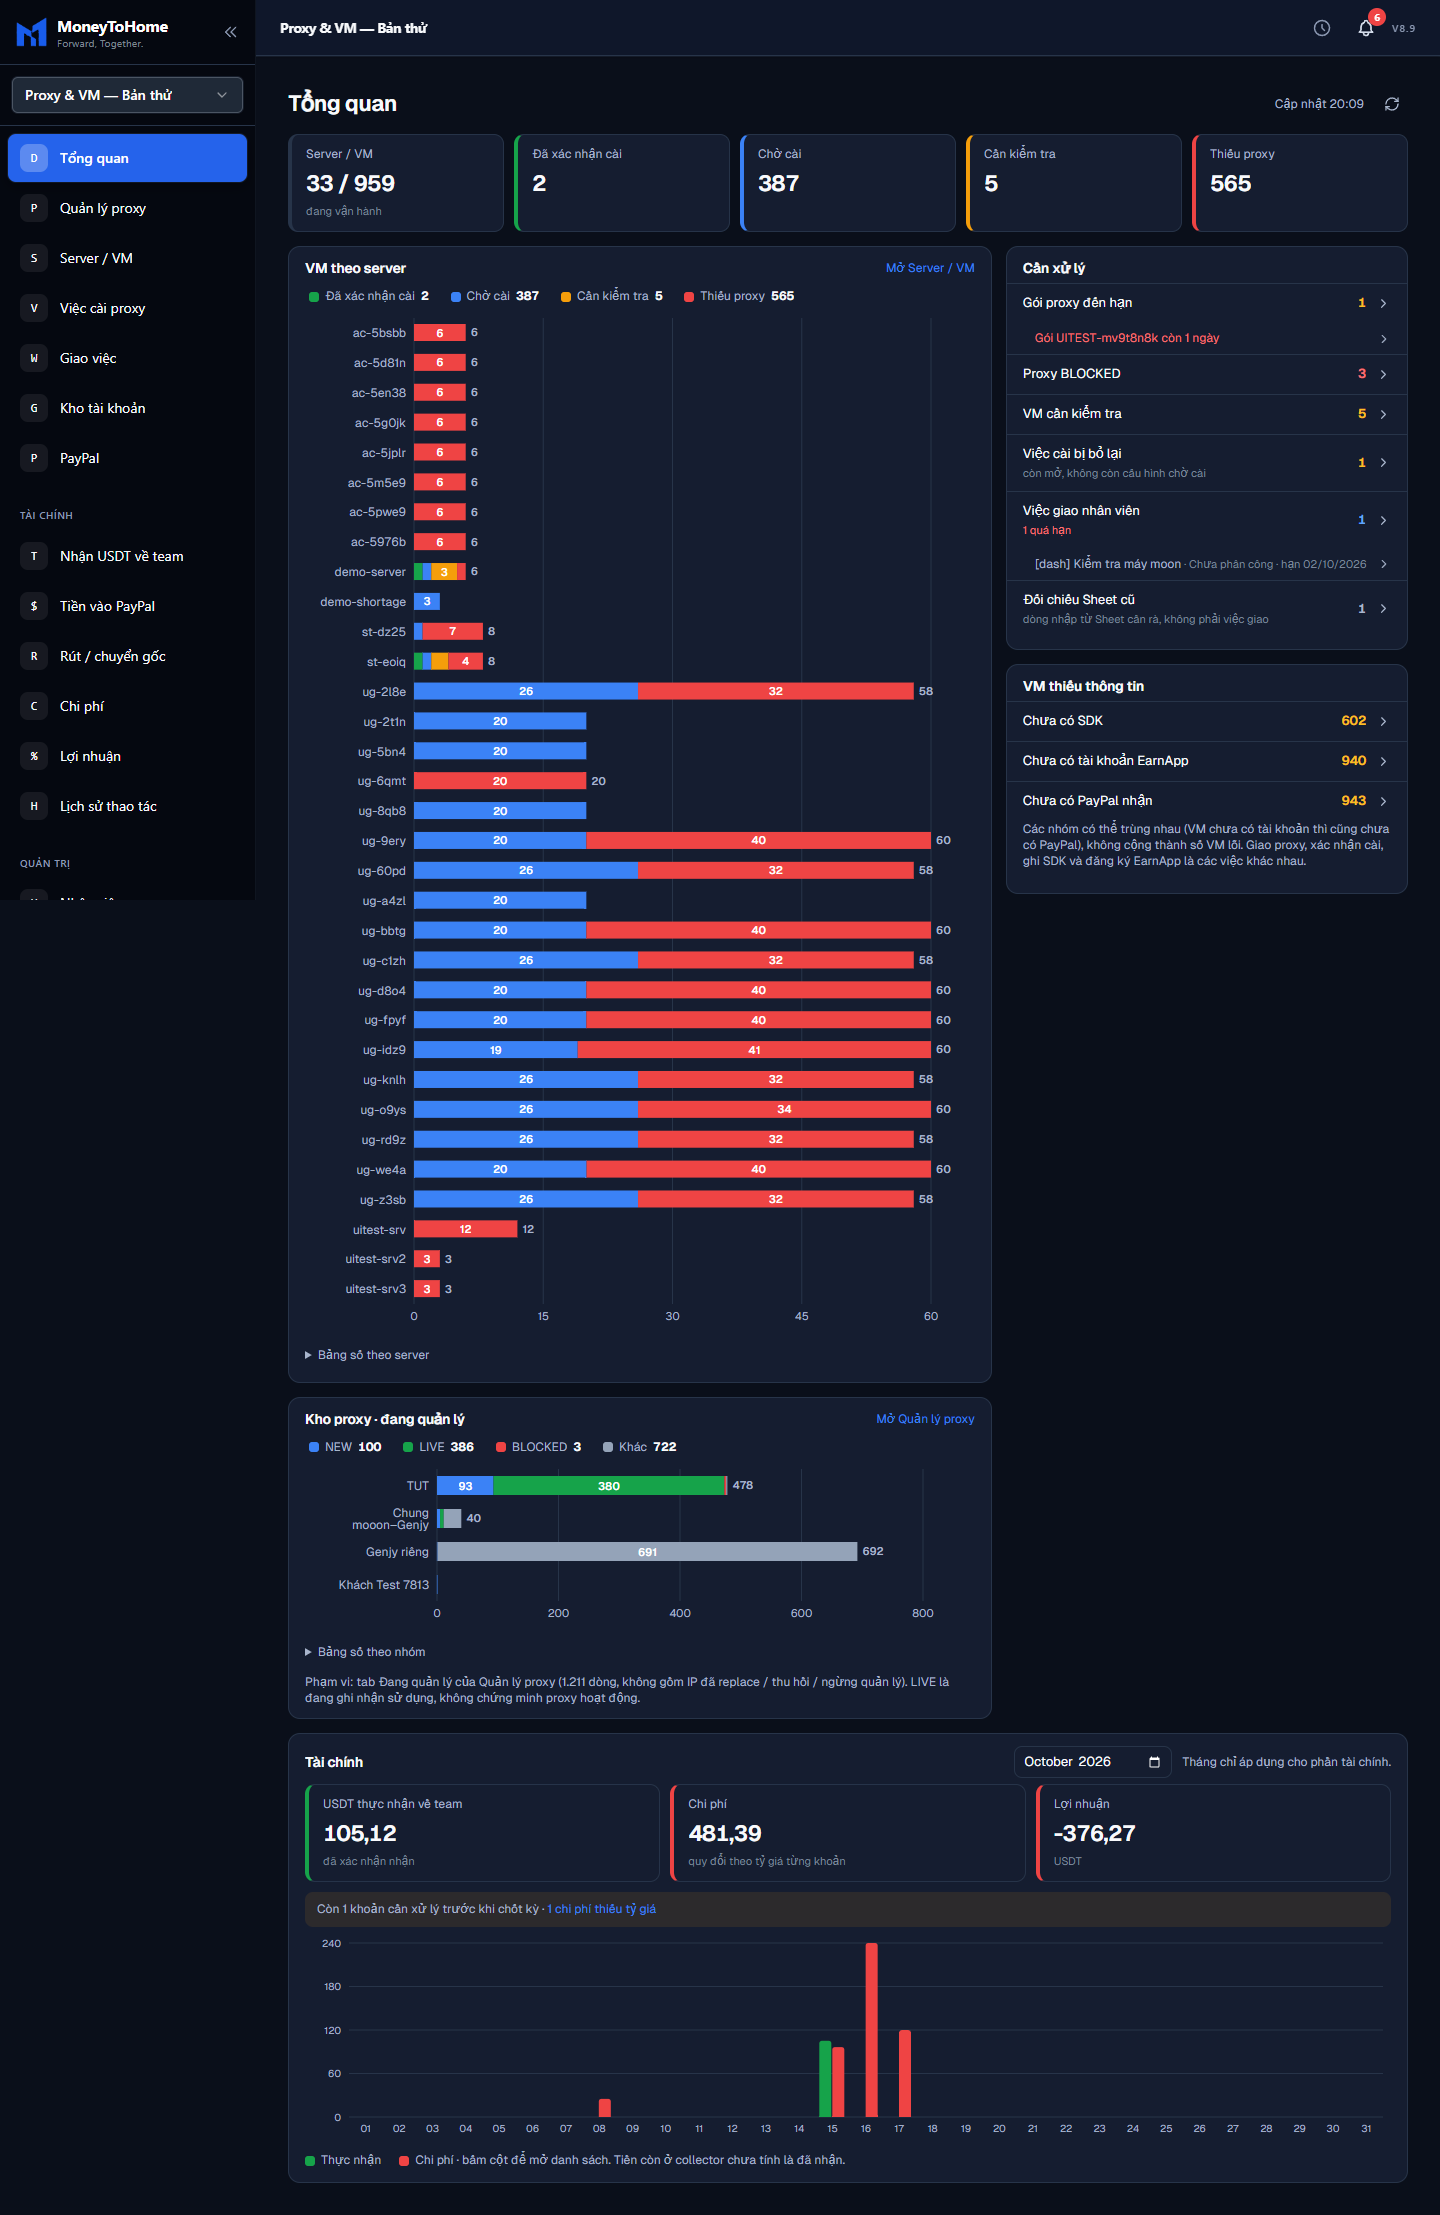
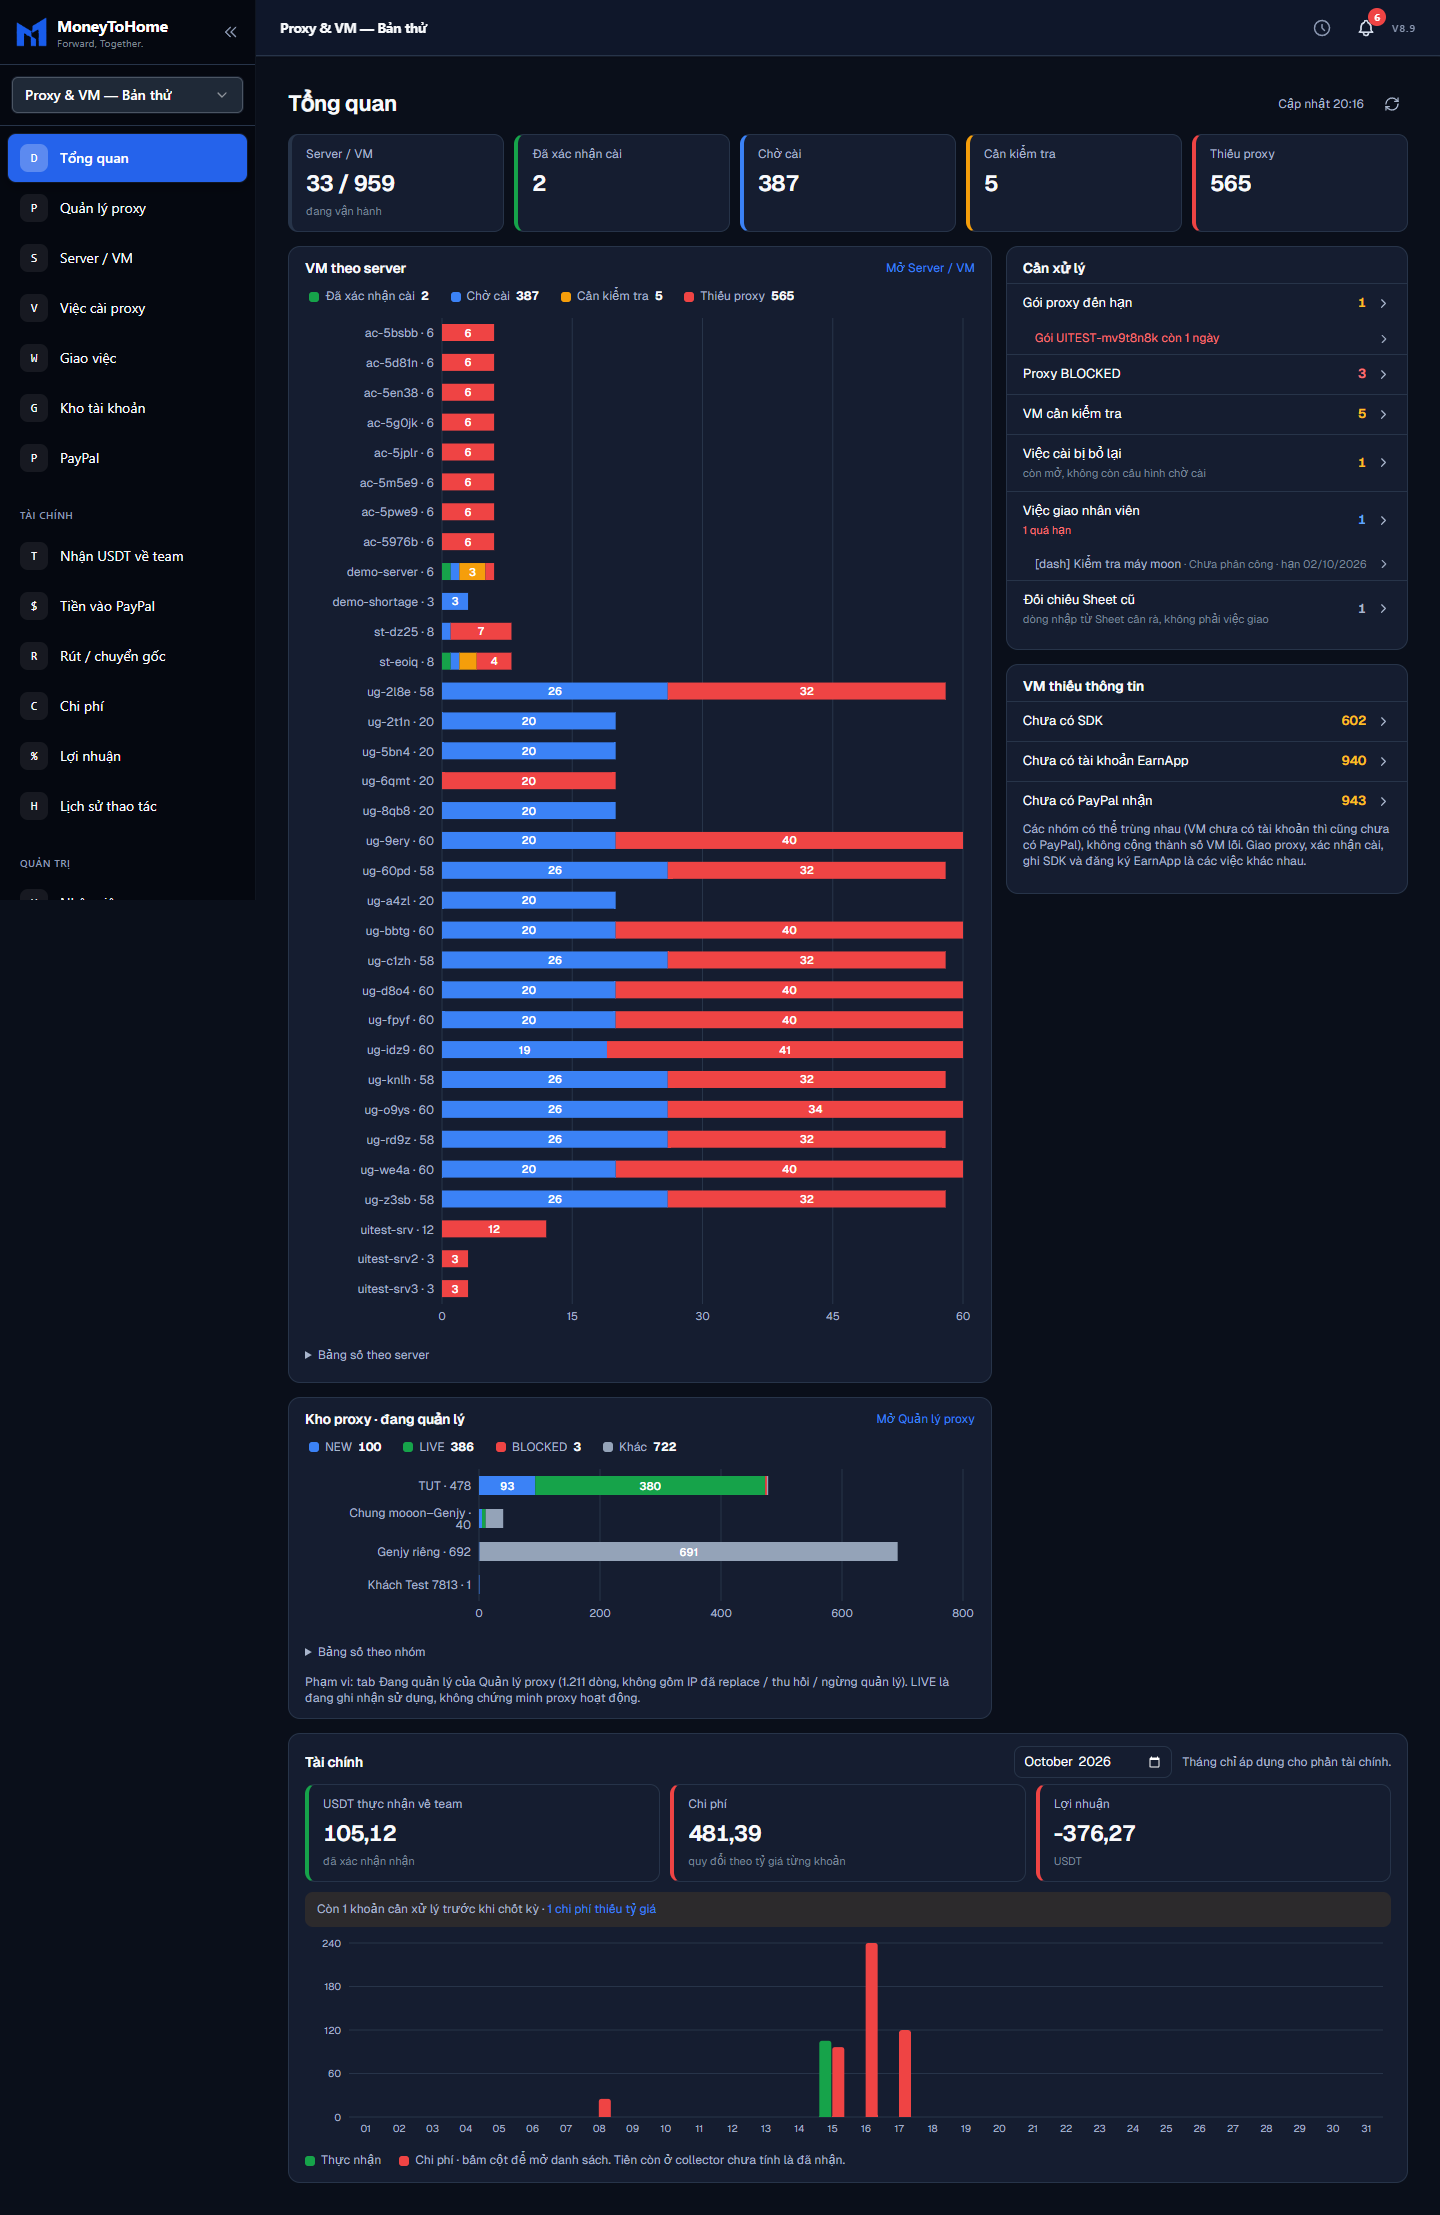
fix(dashboard): show each server/group total beside its name (end label vanished when the last segment was 0)

diff --git a/src/components/dashboard/OverviewCharts.tsx b/src/components/dashboard/OverviewCharts.tsx
@@ -18,21 +18,20 @@ function Legend({items,totals,href}:{items:readonly {key:string;label:string;col
   return <ul className="ov-legend">{items.map(i=><li key={i.key}><Link href={href(i.key)}><span className="ov-dot" style={{background:i.color}}/>{i.label} <strong>{fmt(totals[i.key]??0)}</strong></Link></li>)}</ul>;
 }
 export function VmByServerChart({ops}:{ops:Ops}){
-  const router=useRouter(),rows=ops.servers.map(s=>({...s,name:s.code})),axis=Math.min(150,Math.max(64,Math.max(0,...rows.map(r=>r.code.length))*7+14));
+  const router=useRouter(),rows=ops.servers.map(s=>({...s,name:`${s.code} · ${fmt(s.total)}`})),axis=Math.min(170,Math.max(72,Math.max(0,...rows.map(r=>r.name.length))*7+14));
   if(!rows.length)return <p className="ov-empty">Chưa có server đang vận hành. <Link className="pm-link" href={links.vms()}>Thêm server ở Server / VM</Link></p>;
   const open=(serverId:string,view?:VmView)=>router.push(links.vms({serverId,view}));
   return <div>
     <Legend items={VM_SERIES} totals={ops.totals} href={k=>links.vms({view:k as VmView})}/>
     <div style={{height:Math.max(140,rows.length*30+34)}} role="img" aria-label={`VM theo server: ${rows.map(r=>`${r.code} ${r.total} VM`).join(', ')}`}>
       <ResponsiveContainer width="100%" height="100%">
-        <BarChart data={rows} layout="vertical" margin={{top:4,right:44,bottom:4,left:4}} barCategoryGap={6}>
+        <BarChart data={rows} layout="vertical" margin={{top:4,right:12,bottom:4,left:4}} barCategoryGap={6}>
           <CartesianGrid horizontal={false} stroke="var(--ds-border)"/>
           <XAxis type="number" allowDecimals={false} tick={{fontSize:11,fill:'var(--ds-text-secondary)'}} axisLine={false} tickLine={false}/>
-          <YAxis type="category" dataKey="name" width={axis} interval={0} tick={{fontSize:12,fill:'var(--ds-text-primary)',cursor:'pointer'}} axisLine={false} tickLine={false} onClick={(t:{value?:string})=>{const s=rows.find(r=>r.code===t?.value);if(s)open(s.id);}}/>
+          <YAxis type="category" dataKey="name" width={axis} interval={0} tick={{fontSize:12,fill:'var(--ds-text-primary)',cursor:'pointer'}} axisLine={false} tickLine={false} onClick={(t:{value?:string})=>{const s=rows.find(r=>r.name===t?.value);if(s)open(s.id);}}/>
           <Tooltip {...tooltipStyle} formatter={(v,name)=>[fmt(Number(v)),VM_SERIES.find(s=>s.key===name)?.label||String(name)]}/>
-          {VM_SERIES.map((s,i)=><Bar key={s.key} dataKey={s.key} stackId="vm" fill={s.color} cursor="pointer" isAnimationActive={false} onClick={(d:{payload?:{id:string}})=>{if(d?.payload)open(d.payload.id,s.key);}}>
+          {VM_SERIES.map(s=><Bar key={s.key} dataKey={s.key} stackId="vm" fill={s.color} cursor="pointer" isAnimationActive={false} onClick={(d:{payload?:{id:string}})=>{if(d?.payload)open(d.payload.id,s.key);}}>
             <LabelList dataKey={s.key} content={segmentLabel(22)}/>
-            {i===VM_SERIES.length-1&&<LabelList dataKey="total" position="right" style={{fontSize:11,fill:'var(--ds-text-secondary)',fontWeight:600}}/>}
           </Bar>)}
         </BarChart>
       </ResponsiveContainer>
@@ -41,20 +40,19 @@ export function VmByServerChart({ops}:{ops:Ops}){
   </div>;
 }
 export function StockChart({ops}:{ops:Ops}){
-  const router=useRouter(),rows=ops.stock.rows,totals=Object.fromEntries(STOCK_SERIES.map(s=>[s.key,rows.reduce((a,r)=>a+r[s.key],0)]));
+  const router=useRouter(),rows=ops.stock.rows.map(r=>({...r,name:`${r.label} · ${fmt(r.total)}`})),totals=Object.fromEntries(STOCK_SERIES.map(s=>[s.key,rows.reduce((a,r)=>a+r[s.key],0)]));
   if(!ops.stock.total)return <p className="ov-empty">Chưa có proxy trong kho đang quản lý. <Link className="pm-link" href={links.proxies()}>Mở Quản lý proxy</Link></p>;
   return <div>
     <Legend items={STOCK_SERIES} totals={totals} href={k=>links.proxies({state:k})}/>
     <div style={{height:rows.length*34+34}} role="img" aria-label={`Kho proxy: ${rows.map(r=>`${r.label} ${r.total}`).join(', ')}`}>
       <ResponsiveContainer width="100%" height="100%">
-        <BarChart data={rows} layout="vertical" margin={{top:4,right:52,bottom:4,left:4}} barCategoryGap={7}>
+        <BarChart data={rows} layout="vertical" margin={{top:4,right:12,bottom:4,left:4}} barCategoryGap={7}>
           <CartesianGrid horizontal={false} stroke="var(--ds-border)"/>
           <XAxis type="number" allowDecimals={false} tick={{fontSize:11,fill:'var(--ds-text-secondary)'}} axisLine={false} tickLine={false}/>
-          <YAxis type="category" dataKey="label" width={128} interval={0} tick={{fontSize:12,fill:'var(--ds-text-primary)',cursor:'pointer'}} axisLine={false} tickLine={false} onClick={(t:{value?:string})=>{const r=rows.find(x=>x.label===t?.value);if(r)router.push(links.proxies({group:r.key}));}}/>
+          <YAxis type="category" dataKey="name" width={200} interval={0} tick={{fontSize:12,fill:'var(--ds-text-primary)',cursor:'pointer'}} axisLine={false} tickLine={false} onClick={(t:{value?:string})=>{const r=rows.find(x=>x.name===t?.value);if(r)router.push(links.proxies({group:r.key}));}}/>
           <Tooltip {...tooltipStyle} formatter={(v,name)=>[fmt(Number(v)),STOCK_SERIES.find(s=>s.key===name)?.label||String(name)]}/>
-          {STOCK_SERIES.map((s,i)=><Bar key={s.key} dataKey={s.key} stackId="stock" fill={s.color} cursor="pointer" isAnimationActive={false} onClick={(d:{payload?:{key:string}})=>{if(d?.payload)router.push(links.proxies({group:d.payload.key,state:s.key}));}}>
+          {STOCK_SERIES.map(s=><Bar key={s.key} dataKey={s.key} stackId="stock" fill={s.color} cursor="pointer" isAnimationActive={false} onClick={(d:{payload?:{key:string}})=>{if(d?.payload)router.push(links.proxies({group:d.payload.key,state:s.key}));}}>
             <LabelList dataKey={s.key} content={segmentLabel(26)}/>
-            {i===STOCK_SERIES.length-1&&<LabelList dataKey="total" position="right" style={{fontSize:11,fill:'var(--ds-text-secondary)',fontWeight:600}}/>}
           </Bar>)}
         </BarChart>
       </ResponsiveContainer>
